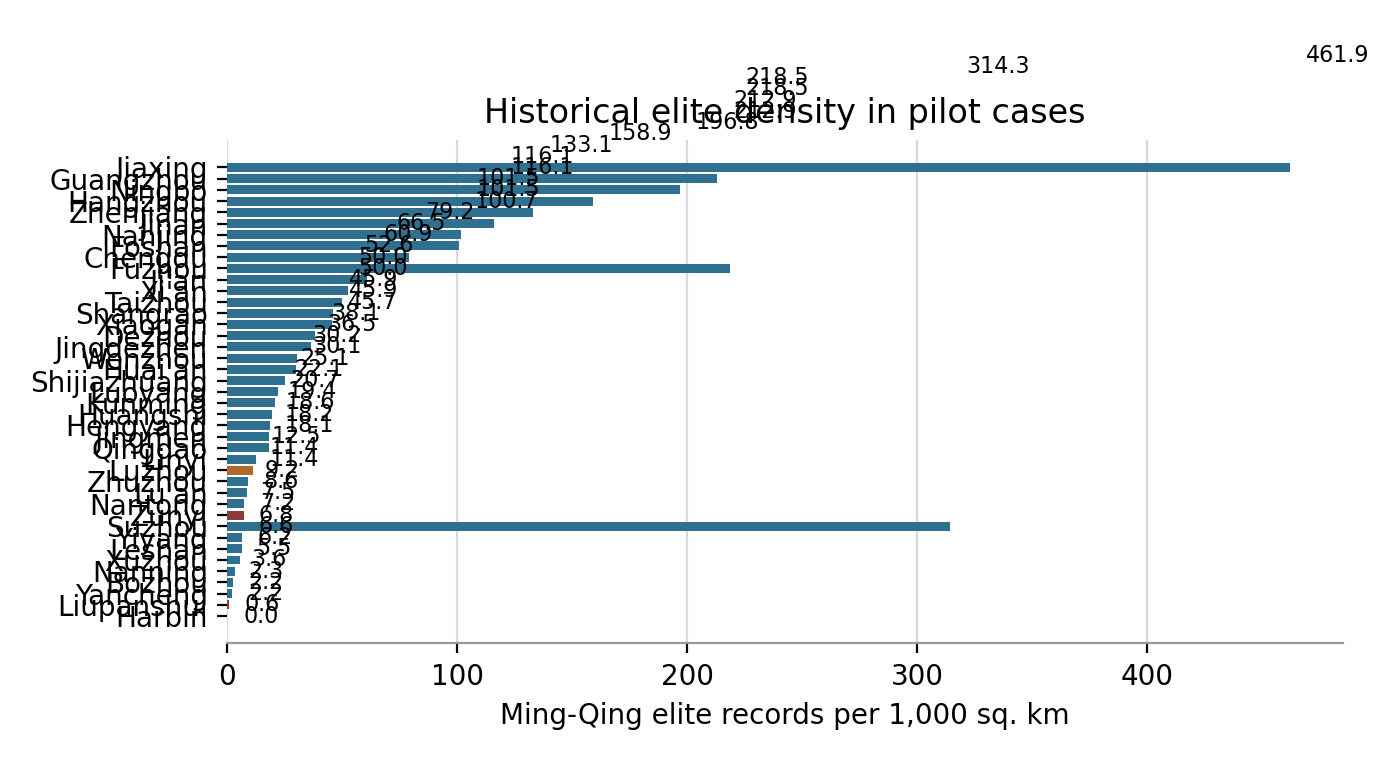
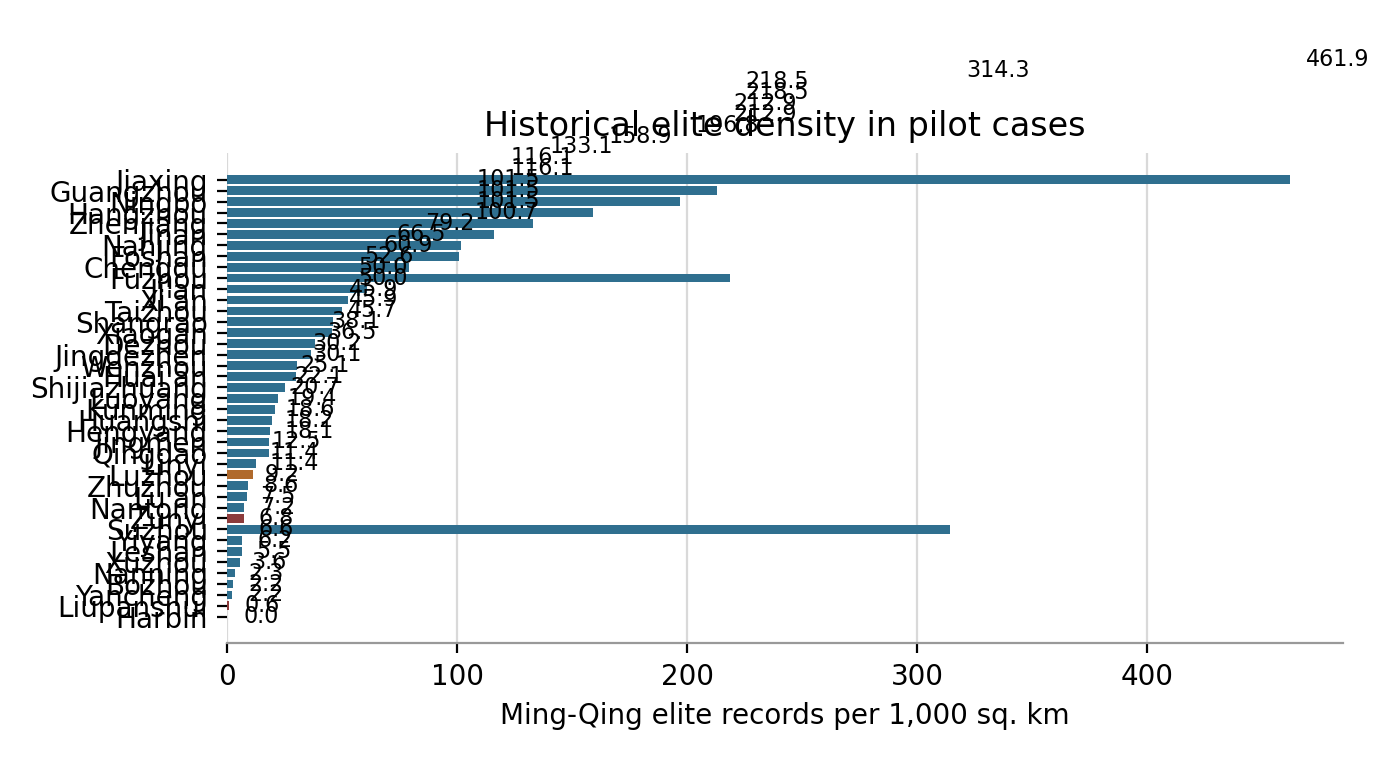
Validate Nanjing Metro rail platform case

Changed region(s): [[0.0, 0.0605, 0.9214, 0.8171], [0.9214, 0.0605, 0.9829, 0.0908]]

diff --git a/paper/sections/coding_strategy.tex b/paper/sections/coding_strategy.tex
@@ -127,7 +127,7 @@ mechanically imply nominal exit because the continued function may be located
 in a successor entity rather than the same issuer.
 
 Table~\ref{tab:pilot_cases} summarizes five illustrative human-validated pilot
-cases. The full label file now contains sixty-one validated labels; this
+cases. The full label file now contains sixty-two validated labels; this
 table is not an empirical result or an exhaustive case list. Its purpose is to
 show how the same coding rule operates across different documentary patterns.
 
@@ -199,19 +199,19 @@ also requires the model to return \texttt{unclear} when the source packet lacks
 a formal event or lacks evidence about the post-event function.
 
 The Codex screening pass follows this rule conservatively. It keeps the
-sixty-one human-validated labels as gold-standard observations and applies the codebook
-only to pending candidates. The current pass screens 196 pending disclosures, produces
-48 medium-confidence surrogate labels, and leaves 148 cases unresolved. The
+sixty-two human-validated labels as gold-standard observations and applies the codebook
+only to pending candidates. The current pass screens 195 pending disclosures, produces
+47 medium-confidence surrogate labels, and leaves 148 cases unresolved. The
 surrogate labels are nominal-exit cases. They contain direct
 no-government-financing language together with continuing evidence of urban
 infrastructure, entrusted construction, land development, fiscal support, or
-public-project functions. They correspond to 31 unique issuers because several
+public-project functions. They correspond to 30 unique issuers because several
 labels come from repeated bond disclosures for the same platform. The
 statistical analysis will therefore aggregate or deduplicate them at the issuer
 or city-platform level. Twenty-nine issuers exactly match issuers that
 already appear in the gold-standard label file under different case IDs. These
 overlaps are treated as consistency checks rather than new observations. The
-remaining two non-overlap issuers enter the next human-validation queue. The
+remaining non-overlap issuer enters the next human-validation queue. The
 unresolved cases are not negative
 outcomes. They either lack source-packet text or lack direct
 formal exit or compliance evidence. This is a feature of the design rather than

diff --git a/paper/sections/empirical_strategy.tex b/paper/sections/empirical_strategy.tex
@@ -51,7 +51,7 @@ human-validated labels from candidate cases throughout the analysis.
 
 Table \ref{tab:pilot-validation-tiers} summarizes the validation status of the
 current evidence packets. The human-validated label file now contains
-sixty-one cases, and the broader screening file contains 257 disclosure rows.
+sixty-two cases, and the broader screening file contains 257 disclosure rows.
 The descriptive tables in this section retain
 the historical-capacity matched subset until the remaining expansion cases are
 merged into the historical-capacity crosswalk. This keeps the pilot evidence
@@ -195,7 +195,7 @@ Figure \ref{fig:pilot-exit-type-distribution} reports the exit-type
 distribution by validation tier. The figure is not a population estimate.
 Rather, it records the current evidence map for the historically matched pilot
 subset. The full human-validated label file now contains two substantive-exit
-cases, forty-seven nominal-exit cases, and ten functional-transfer cases. The
+cases, fifty nominal-exit cases, and ten functional-transfer cases. The
 strong candidates extend the same institutional range, but remain outside the
 final label file because they still require either a direct formal exit source
 or a scope decision about whether the issuer should be treated as a core LGFV
@@ -253,21 +253,21 @@ functions buried in bond documents, or produce no useful label when the
 candidate file contains only a disclosure-page title.
 
 The current screening file makes this separation explicit. It contains
-sixty-one human-validated gold-standard cases and 196 pending candidate
+sixty-two human-validated gold-standard cases and 195 pending candidate
 disclosures. Applying the frozen codebook through a conservative Codex
-screening pass produces 48 surrogate labels and 148
+screening pass produces 47 surrogate labels and 148
 unresolved candidates. The surrogate labels are medium-confidence nominal-exit
 cases because the source packets pair no-government-financing language with
 continued evidence of public development, infrastructure construction,
 entrusted projects, land development, fiscal support, or state-asset functions.
-They correspond to 31 unique issuers because repeated
+They correspond to 30 unique issuers because repeated
 bond disclosures often describe the same platform. The analysis therefore
 treats them as disclosure-level surrogate labels until they are deduplicated
 or aggregated to the city-platform level. At the issuer level, 29 of these
 issuers match platforms already present in the gold-standard file under
 different case IDs. This overlap is useful for checking whether the surrogate
 procedure recovers already validated nominal-exit cases, but it is not counted
-as new validation expansion. The remaining two non-overlap issuers enter the
+as new validation expansion. The remaining non-overlap issuer enters the
 next human-review queue. The
 unresolved cases remain
 unresolved for two reasons: some have source packets but no direct formal exit

diff --git a/paper/sections/introduction.tex b/paper/sections/introduction.tex
@@ -86,7 +86,7 @@ financial news. Large language models generate preliminary labels under a
 fixed codebook, but final labels are assigned only after human review of the
 original documents.
 
-The current label file contains sixty-one human-validated city-platform
+The current label file contains sixty-two human-validated city-platform
 cases and a seed pool of 257 candidate disclosures for later
 LLM-assisted screening. The validated labels already recover three distinct
 institutional outcomes. Guangzhou and Ningbo are coded as substantive exit.
@@ -95,10 +95,9 @@ functional transfer. Most validated cases are nominal exits, including
 transport, development-zone, cultural-tourism, county-level, and district
 platforms where no-government-financing language coexists with continuing
 public project functions. Jiaxing Jiaxiu shows this pattern even in a
-top-elite-density district. Guangzhou Metro shows that a specialized rail
-platform can remain a public investment-financing vehicle in the same high
-historical-capacity city where Guangzhou City Construction Investment Group is
-closer to substantive fiscal absorption. Nanning adds a low-capacity
+top-elite-density district. Guangzhou Metro and Nanjing Metro show that
+specialized rail platforms can retain public investment-financing functions
+even in high historical-capacity cities. Nanning adds a low-capacity
 western-capital case in which a real 2018 shift toward municipal fiscal funding
 for some projects coexists with shantytown government-purchase-service
 receivables, infrastructure assets, tolling, affordable-housing rental, and

diff --git a/paper/tables/pilot_validation_tiers.tex b/paper/tables/pilot_validation_tiers.tex
@@ -7,11 +7,11 @@
 \toprule
 Tier & Cases & Use in the paper \\
 \midrule
-Human-validated label file & 61 & Used as gold-standard labels \\
-Historically matched validated subset & 20 & Used for pilot descriptive tables \\
+Human-validated label file & 62 & Used as gold-standard labels \\
+Historically matched validated subset & 21 & Used for pilot descriptive tables \\
 Candidate disclosure pool & 257 & Used for LLM-assisted screening \\
 Boundary-reviewed packets & 0 & Used to define scope conditions \\
-Pending LLM/human validation & 196 & Used for future sample expansion \\
+Pending LLM/human validation & 195 & Used for future sample expansion \\
 \bottomrule
 \end{tabular}
 \begin{minipage}{0.96\linewidth}

diff --git a/scripts/build_pilot_capacity_summary.py b/scripts/build_pilot_capacity_summary.py
@@ -111,6 +111,7 @@ VALIDATED_EVENT_LABELS = {
     "pilot_sd_001": "2015 no-government-financing and non-platform-list disclosure",
     "pilot_js_003": "2015 no-government-financing with entrusted construction",
     "pilot_gd_003": "2018 non-platform-list disclosure with fiscal-settlement projects",
+    "pilot_js_001_alt_metro": "2015 no-government-financing with rail project finance",
 }
 MECHANISM_EVIDENCE = {
     "pilot_gd_001": {
@@ -122,6 +123,11 @@ MECHANISM_EVIDENCE = {
         "fiscal_absorption": "Municipal and district fiscal capital contributions fund rail construction, while the company still raises remaining project funds through debt financing.",
         "coordination": "The Guangzhou government, finance bureau, metro issuer, and rail-construction subsidiary are linked through municipal rail planning, fiscal contributions, and state ownership.",
         "project_asset_governance": "Urban rail construction, operation, property development around stations, land-reserve proceeds, subsidies, and injected assets remain inside the metro group.",
+    },
+    "pilot_js_001_alt_metro": {
+        "fiscal_absorption": "City and district fiscal funds and demolition funds provide rail project capital, while follow-on financing relies on syndicated loans and other debt financing.",
+        "coordination": "Nanjing SASAC, the finance bureau, the metro issuer, and PPP project entities are linked through municipal rail planning, fiscal contributions, and state ownership.",
+        "project_asset_governance": "Urban rail construction, operation, resource development, PPP project companies, subsidies, pledged income rights, and injected capital remain inside the metro group.",
     },
     "pilot_zj_001": {
         "fiscal_absorption": "Debt succession and asset transfer occurred through formal reorganization.",

diff --git a/paper/sections/research_design.tex b/paper/sections/research_design.tex
@@ -60,7 +60,7 @@ main historical-capacity effect. Its purpose is to validate the measurement
 scheme, identify ambiguous cases, and discipline the larger source-collection
 process.
 
-The current label file contains sixty-one human-validated cases. Guangzhou
+The current label file contains sixty-two human-validated cases. Guangzhou
 City Construction Investment Group and Ningbo Development Investment Group are
 coded as substantive exit because the available disclosures show movement away
 from off-budget financing for government projects. Hangzhou City Investment Group,
@@ -69,7 +69,8 @@ Development Group, and several reorganized platform cases are coded as
 functional transfer because public project functions continue through
 reorganized platform groups, guarantor structures, SASAC entrustment, state
 capital channels, or fiscal-settlement contracts. Xi'an Hi-tech Holding,
-Chengdu City Construction Investment Management Group, Zhuzhou State-owned
+Chengdu City Construction Investment Management Group, Nanjing Metro Group,
+Zhuzhou State-owned
 Assets Investment Holding Group, Xuzhou Xinsheng Investment Holding Group,
 Hengyang City Construction Investment, Jinan City Investment Group, Yancheng
 City Asset Investment Group, Suzhou City Construction Investment Group,

diff --git a/paper/tables/pilot_capacity_bin_exit_type.tex b/paper/tables/pilot_capacity_bin_exit_type.tex
@@ -7,12 +7,12 @@
 \toprule
 Historical capacity bin & Substantive & Nominal & Functional transfer & Total \\
 \midrule
-High historical capacity & 2 & 6 & 2 & 10 \\
+High historical capacity & 2 & 7 & 2 & 11 \\
 Middle historical capacity & 0 & 4 & 1 & 5 \\
 Low historical capacity & 0 & 5 & 0 & 5 \\
 \bottomrule
 \end{tabular}
 \begin{minipage}{0.92\linewidth}
-\vspace{0.5em}\footnotesize Notes: The table uses only the 20 historically matched human-validated pilot labels. Capacity bins are assigned from the CBDB-GADM Ming-Qing elite-density measure in the pilot case matrix. Counts are descriptive and are not population estimates.
+\vspace{0.5em}\footnotesize Notes: The table uses only the 21 historically matched human-validated pilot labels. Capacity bins are assigned from the CBDB-GADM Ming-Qing elite-density measure in the pilot case matrix. Counts are descriptive and are not population estimates.
 \end{minipage}
 \end{table}

diff --git a/paper/figures/pilot_exit_type_distribution.tex b/paper/figures/pilot_exit_type_distribution.tex
@@ -8,8 +8,7 @@
 \toprule
 Validation tier & Distribution & Counts \\
 \midrule
-Human-validated $(n=20)$ & {\color{black!70}\rule{0.048\linewidth}{1.25ex}}{\color{black!40}\rule{0.360\linewidth}{1.25ex}}{\color{black!20}\rule{0.072\linewidth}{1.25ex}} & S=2; N=15; F=3 \\
-Strong candidate $(n=1)$ & {\color{black!70}\rule{0.480\linewidth}{1.25ex}} & S=1 \\
+Human-validated $(n=21)$ & {\color{black!70}\rule{0.046\linewidth}{1.25ex}}{\color{black!40}\rule{0.366\linewidth}{1.25ex}}{\color{black!20}\rule{0.069\linewidth}{1.25ex}} & S=2; N=16; F=3 \\
 Boundary case $(n=1)$ & \fcolorbox{black!50}{white}{\color{white}\rule{0.480\linewidth}{1.25ex}} & U=1 \\
 Source-only candidate $(n=3)$ & \fcolorbox{black!50}{white}{\color{white}\rule{0.480\linewidth}{1.25ex}} & U=3 \\
 \bottomrule

diff --git a/paper/main.tex b/paper/main.tex
@@ -38,7 +38,7 @@ govern projects and state assets after exit. The paper introduces an
 LLM-assisted, human-validated coding protocol using government documents,
 company disclosures, bond prospectuses, credit rating reports, legal opinions,
 and business registration records. The current label file contains
-sixty-one human-validated cases and is paired with a seed pool of 257
+sixty-two human-validated cases and is paired with a seed pool of 257
 candidate disclosures for later LLM-assisted screening. The
 validated cases show that identical official compliance language can
 correspond to distinct institutional outcomes.

diff --git a/paper/sections/pilot_appendix.tex b/paper/sections/pilot_appendix.tex
@@ -2,7 +2,7 @@
 
 Table \ref{tab:pilot-source-audit} records the source trail behind the
 historically matched pilot labels. The full human-validated label file now
-contains sixty-one cases, while this table retains the subset used in the
+contains sixty-two cases, while this table retains the subset used in the
 current historical-capacity comparison. For each case, it lists the primary
 document used for the label, the formal exit or compliance event, the observed
 post-event function, and the final coding decision. The table is deliberately

diff --git a/paper/tables/pilot_case_historical_capacity.tex b/paper/tables/pilot_case_historical_capacity.tex
@@ -24,6 +24,7 @@ Jinan & Human-validated & Nominal exit & 116.10 \\
 Jinan & Human-validated & Nominal exit & 116.10 \\
 Nanjing & Human-validated & Nominal exit & 101.55 \\
 Nanjing & Human-validated & Nominal exit & 101.55 \\
+Nanjing & Human-validated & Nominal exit & 101.55 \\
 Foshan & Human-validated & Functional transfer & 100.72 \\
 Chengdu & Human-validated & Nominal exit & 79.18 \\
 Fuzhou & Human-validated & Nominal exit & 66.49 \\

diff --git a/paper/tables/pilot_mechanism_evidence.tex b/paper/tables/pilot_mechanism_evidence.tex
@@ -26,6 +26,7 @@ Jinan & Nominal exit & Land-preparation gains and fiscal subsidies compensate th
 Jinan & Nominal exit & Evidence not separately mechanism-coded in the current pilot table. & Evidence not separately mechanism-coded in the current pilot table. & Formal no-government-financing language coexists with continuing engineering construction, land preparation, and delegated infrastructure-construction functions. The issuer discloses PPP and BT or entrusted-construction arrangements, a historical project placed under hidden-debt management and resolved, government receivables, land injected by public authorities, and current Jinan Start-up Area infrastructure projects operated through entrusted construction and settlement with public-sector counterparties. \\
 Nanjing & Nominal exit & Evidence not separately mechanism-coded in the current pilot table. & Evidence not separately mechanism-coded in the current pilot table. & Formal no-government-financing and no-local-government-debt language coexists with continuing evidence that the same Nanjing SASAC-controlled transport group remains the city's main road bridge expressway railway-supporting and transport-project investment construction operation and financing platform. The source packet records municipal capital injections SASAC transfers toll-right pledges government-related receivables fiscal subsidies public-institution counterparties and transport-infrastructure debt pressure. Official compliance therefore does not amount to functional disappearance of the public infrastructure finance role. \\
 Nanjing & Nominal exit & Government subsidies, government-related receivables, and payment timing from the tourism-zone management committee remain central to operations. & The issuer is tied to Gaochun state-asset ownership and to district tourism-infrastructure project counterparties. & Tourism infrastructure, old-street redevelopment, forest-park, Cittaslow, transport-facility, and real-estate development functions remain inside the issuer group. \\
+Nanjing & Nominal exit & City and district fiscal funds and demolition funds provide rail project capital, while follow-on financing relies on syndicated loans and other debt financing. & Nanjing SASAC, the finance bureau, the metro issuer, and PPP project entities are linked through municipal rail planning, fiscal contributions, and state ownership. & Urban rail construction, operation, resource development, PPP project companies, subsidies, pledged income rights, and injected capital remain inside the metro group. \\
 Foshan & Functional transfer & Fiscal settlement for entrusted construction and contract-based payments are documented. & SASAC-entrusted land preparation coexists with disclosure that the issuer was outside the 2018 platform directory. & Public project tasks are formalized through SASAC-owned land and contract settlement. \\
 Chengdu & Nominal exit & Debt replacement and government-bond pass-through coexist with fiscal-payment chains. & Issuer compliance language is present, but an independent exit-list source is still missing. & The same issuer continues infrastructure investment and financing functions. \\
 Fuzhou & Nominal exit & Evidence not separately mechanism-coded in the current pilot table. & Evidence not separately mechanism-coded in the current pilot table. & Formal stripping and marketized-transformation language coexists with continuing infrastructure construction, affordable-housing and shantytown projects, government purchase service, PPP projects, government buyback, fiscal payment, finance-bureau receivables, land-related legacy activity, and infrastructure subsidies. The issuer remains the city's core public-development vehicle, so the case is coded as nominal exit. \\